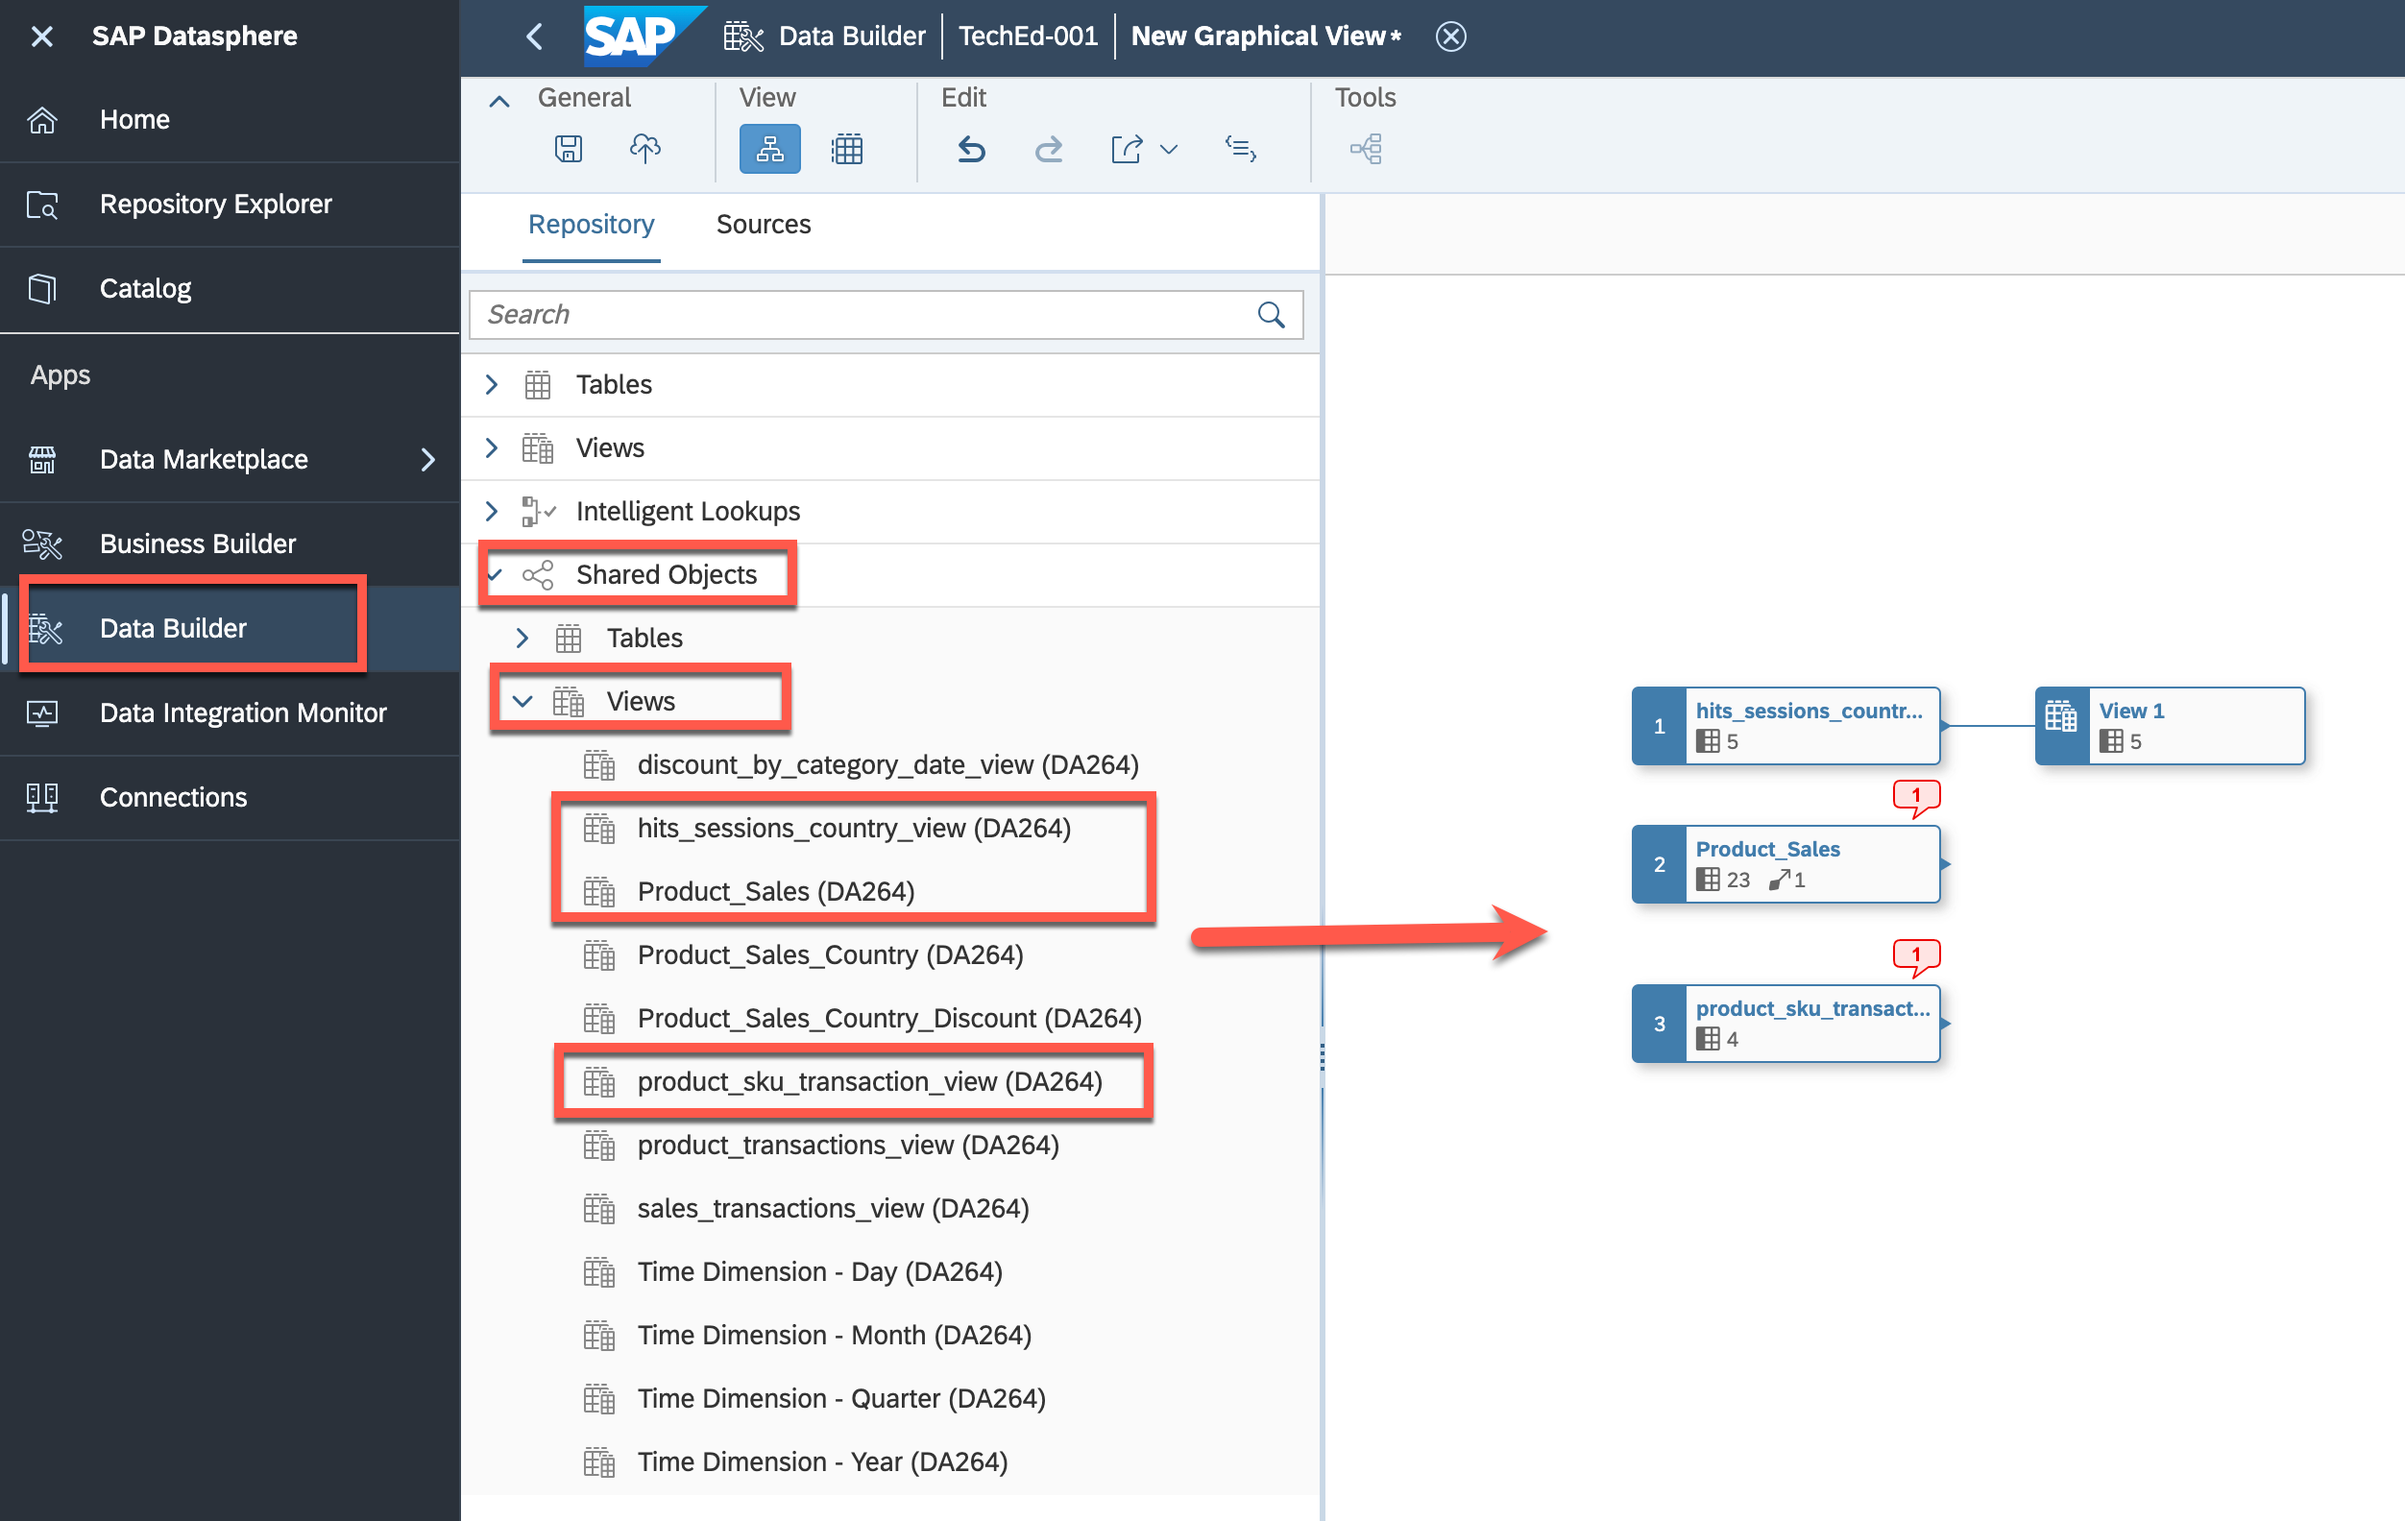
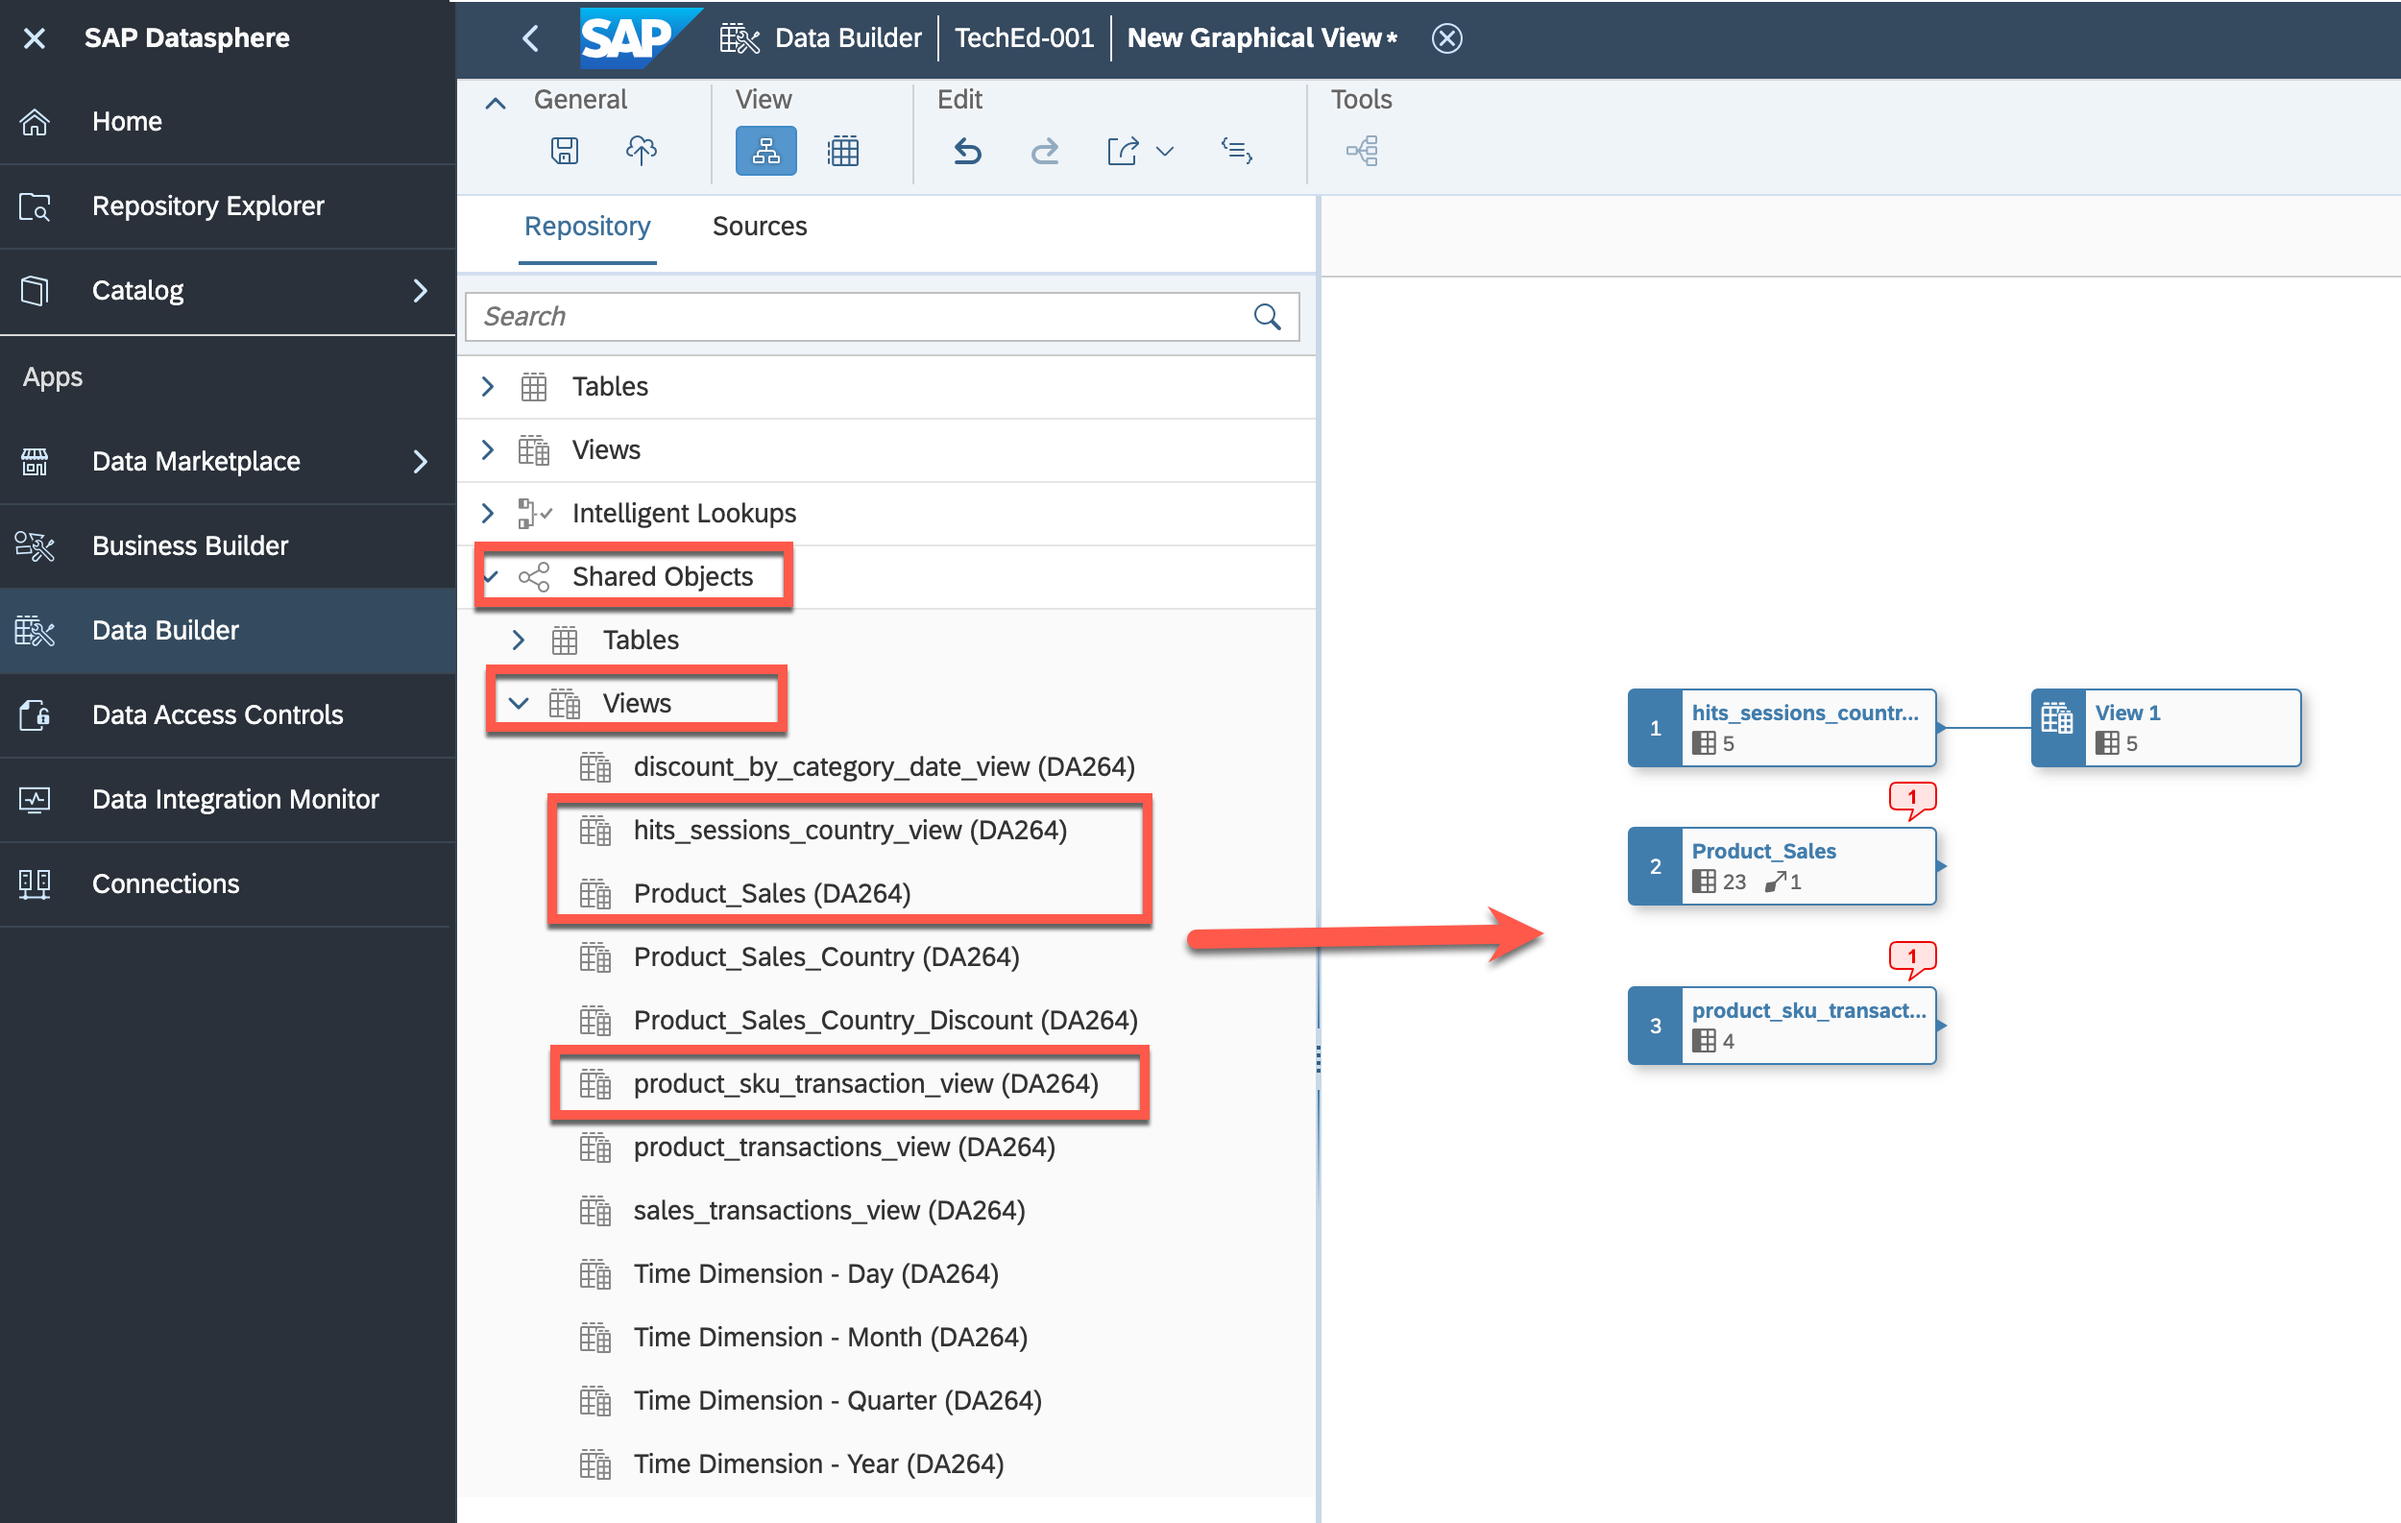
Update the screenshot and add search step

diff --git a/exercises/ex1/README.md b/exercises/ex1/README.md
@@ -35,31 +35,35 @@ Refer to the provided solution below for a detailed, step-by-step guide on how t
 
       ![New View](images/V_Data_Builder.png)
 
-3. 👉 Navigate to the **Shared Objects** from Repository, expand the views and drag and drop the following 3 views into the canvas
+3. 👉 In the Repository section, search for **DA264.**
+    
+      ![New View](images/search.png)
+
+4. 👉 Navigate to the **Shared Objects** from Repository, expand the views and drag and drop the following 3 views into the canvas
       - product_sku_transactions_view
       - Product_Sales
       - hits_sessions_country_view
 
       ![New View](images/View1.png)
 
-4. 👉 Drag and move **product_sku_transaction_view** on top of **Product_Sales** to create a **JOIN**
+5. 👉 Drag and move **product_sku_transaction_view** on top of **Product_Sales** to create a **JOIN**
 
       ![Join](images/join1.png)
 
-5. 👉 Define the following **JOIN** conditions:
+6. 👉 Define the following **JOIN** conditions:
     
       - Join Type: *Inner*
       - Mappings (see screenshot below): DATE->DATE, Product_SKU->Product_SKU, transaction_id->transaction_id
 
       ![Join](images/join1map.png)
 
-6. 👉 Keep the Projection columns unchanged
+7. 👉 Keep the Projection columns unchanged
    
-7. 👉 Add new **Calculated Column** (see screenshot below)
+8. 👉 Add new **Calculated Column** (see screenshot below)
 
       ![Join](images/cc_column.png)
 
-8. 👉 The idea of the calculated column is to have an additional DATE field with *String* data type, which is required for the next join. Add the following properties to the calculated column.
+9.  👉 The idea of the calculated column is to have an additional DATE field with *String* data type, which is required for the next join. Add the following properties to the calculated column.
       - Business Name: *DATESTR*
       - Technical Name: *DATESTR*
       - Data Type: *String*
@@ -68,18 +72,18 @@ Refer to the provided solution below for a detailed, step-by-step guide on how t
 
       ![Join](images/cc_column_properties.png)
 
-9. 👉 Drag and move **Calculated Column** on top of **hits_session_country_view** to create the second **JOIN**
+10. 👉 Drag and move **Calculated Column** on top of **hits_session_country_view** to create the second **JOIN**
    
       ![Join](images/join2.png)
 
-10. 👉 Define the following **JOIN** conditions:
+11. 👉 Define the following **JOIN** conditions:
     
       - Join Type: *Inner*
       - Mappings (see screenshot): DATESTR->DATET, Country->Country
 
       ![Join](images/join2map.png)
 
-11. 👉 Finalise the view by giving a name, semantic type and expose for consumption
+12. 👉 Finalise the view by giving a name, semantic type and expose for consumption
     
     - Business Name: *Product_Sales_Country*
     - Technical Name: *Product_Sales_Country*
@@ -88,15 +92,15 @@ Refer to the provided solution below for a detailed, step-by-step guide on how t
    
       ![Join](images/finalview1.png)
 
-12. 👉 Create a new **Association**, search for the *"Time Dimension - Day"* and add it as a target.
+13. 👉 Create a new **Association**, search for the *"Time Dimension - Day"* and add it as a target.
     
       ![Join](images/association2.png)
 
-13. 👉 Create the following mapping: **DATE->Date**
+14. 👉 Create the following mapping: **DATE->Date**
     
       ![Join](images/assoc_mapping2.png)
 
-14. 👉 Now as we have successfully created the new view "Product Sales Country".
+15. 👉 Now as we have successfully created the new view "Product Sales Country".
 
        To view the final data in **Product_Sales_Country** view, click on the **Data Viewer Icon**.
 
@@ -105,7 +109,7 @@ Refer to the provided solution below for a detailed, step-by-step guide on how t
       > Note: Incase of **Delayed Data Viewing** message, scroll down and click on **View Data**, in order to load the data.
       > ![New View](images/viewdata.png)
 
-15. 👉 Save and deploy the **Product_Sales_Country** view
+16. 👉 Save and deploy the **Product_Sales_Country** view
     
       ![Save](images/SaveView.png)
 
